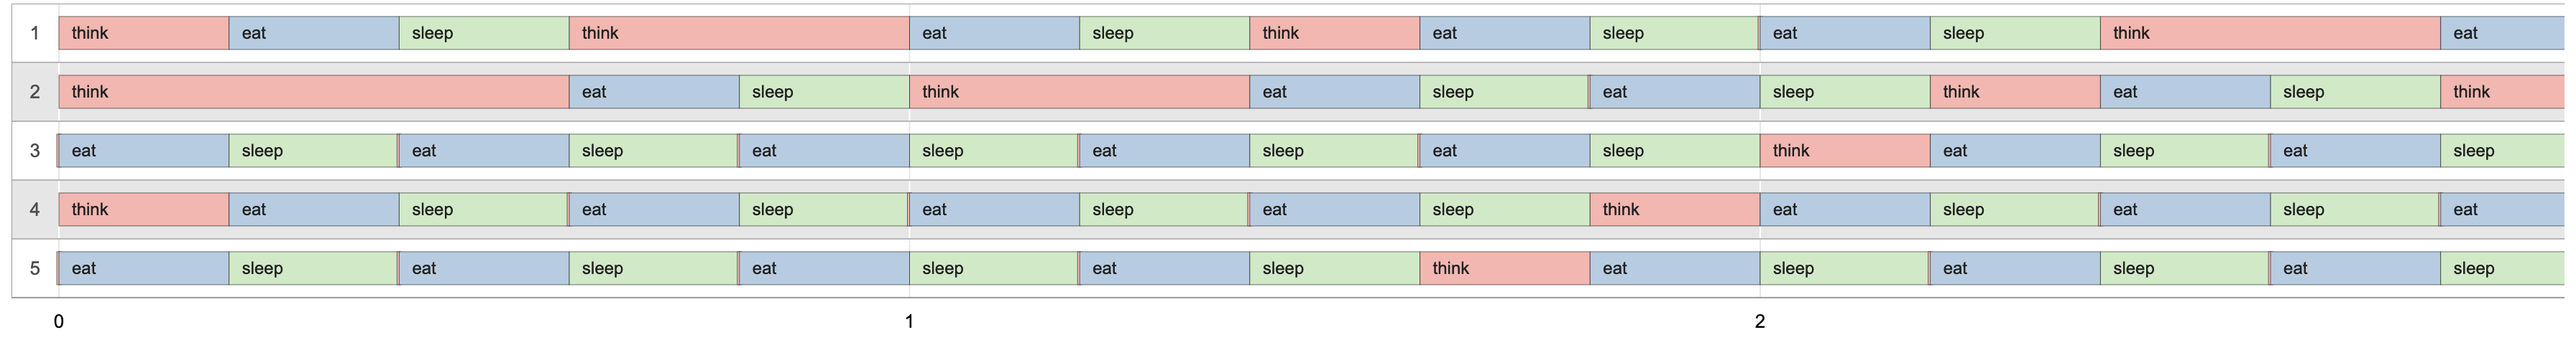
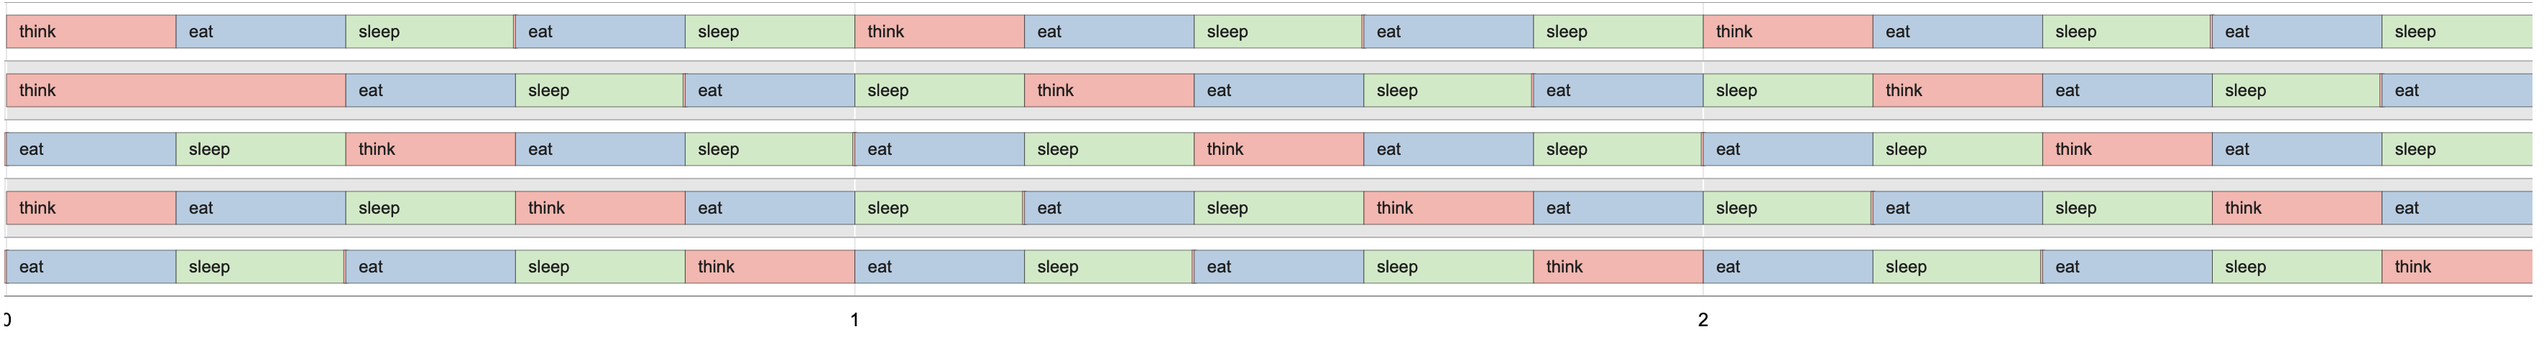
update readme with animation

diff --git a/README.md b/README.md
@@ -31,7 +31,7 @@ Here is an example of how to run the program with 5 philosophers who each have 8
 ./philo 5 800 200 200 7
 ```
 
-![](example/logs.png)
+![](example/logs.gif)
 
 Visualizer : [https://nafuka11.github.io/philosophers-visualizer/](https://nafuka11.github.io/philosophers-visualizer/)
 
